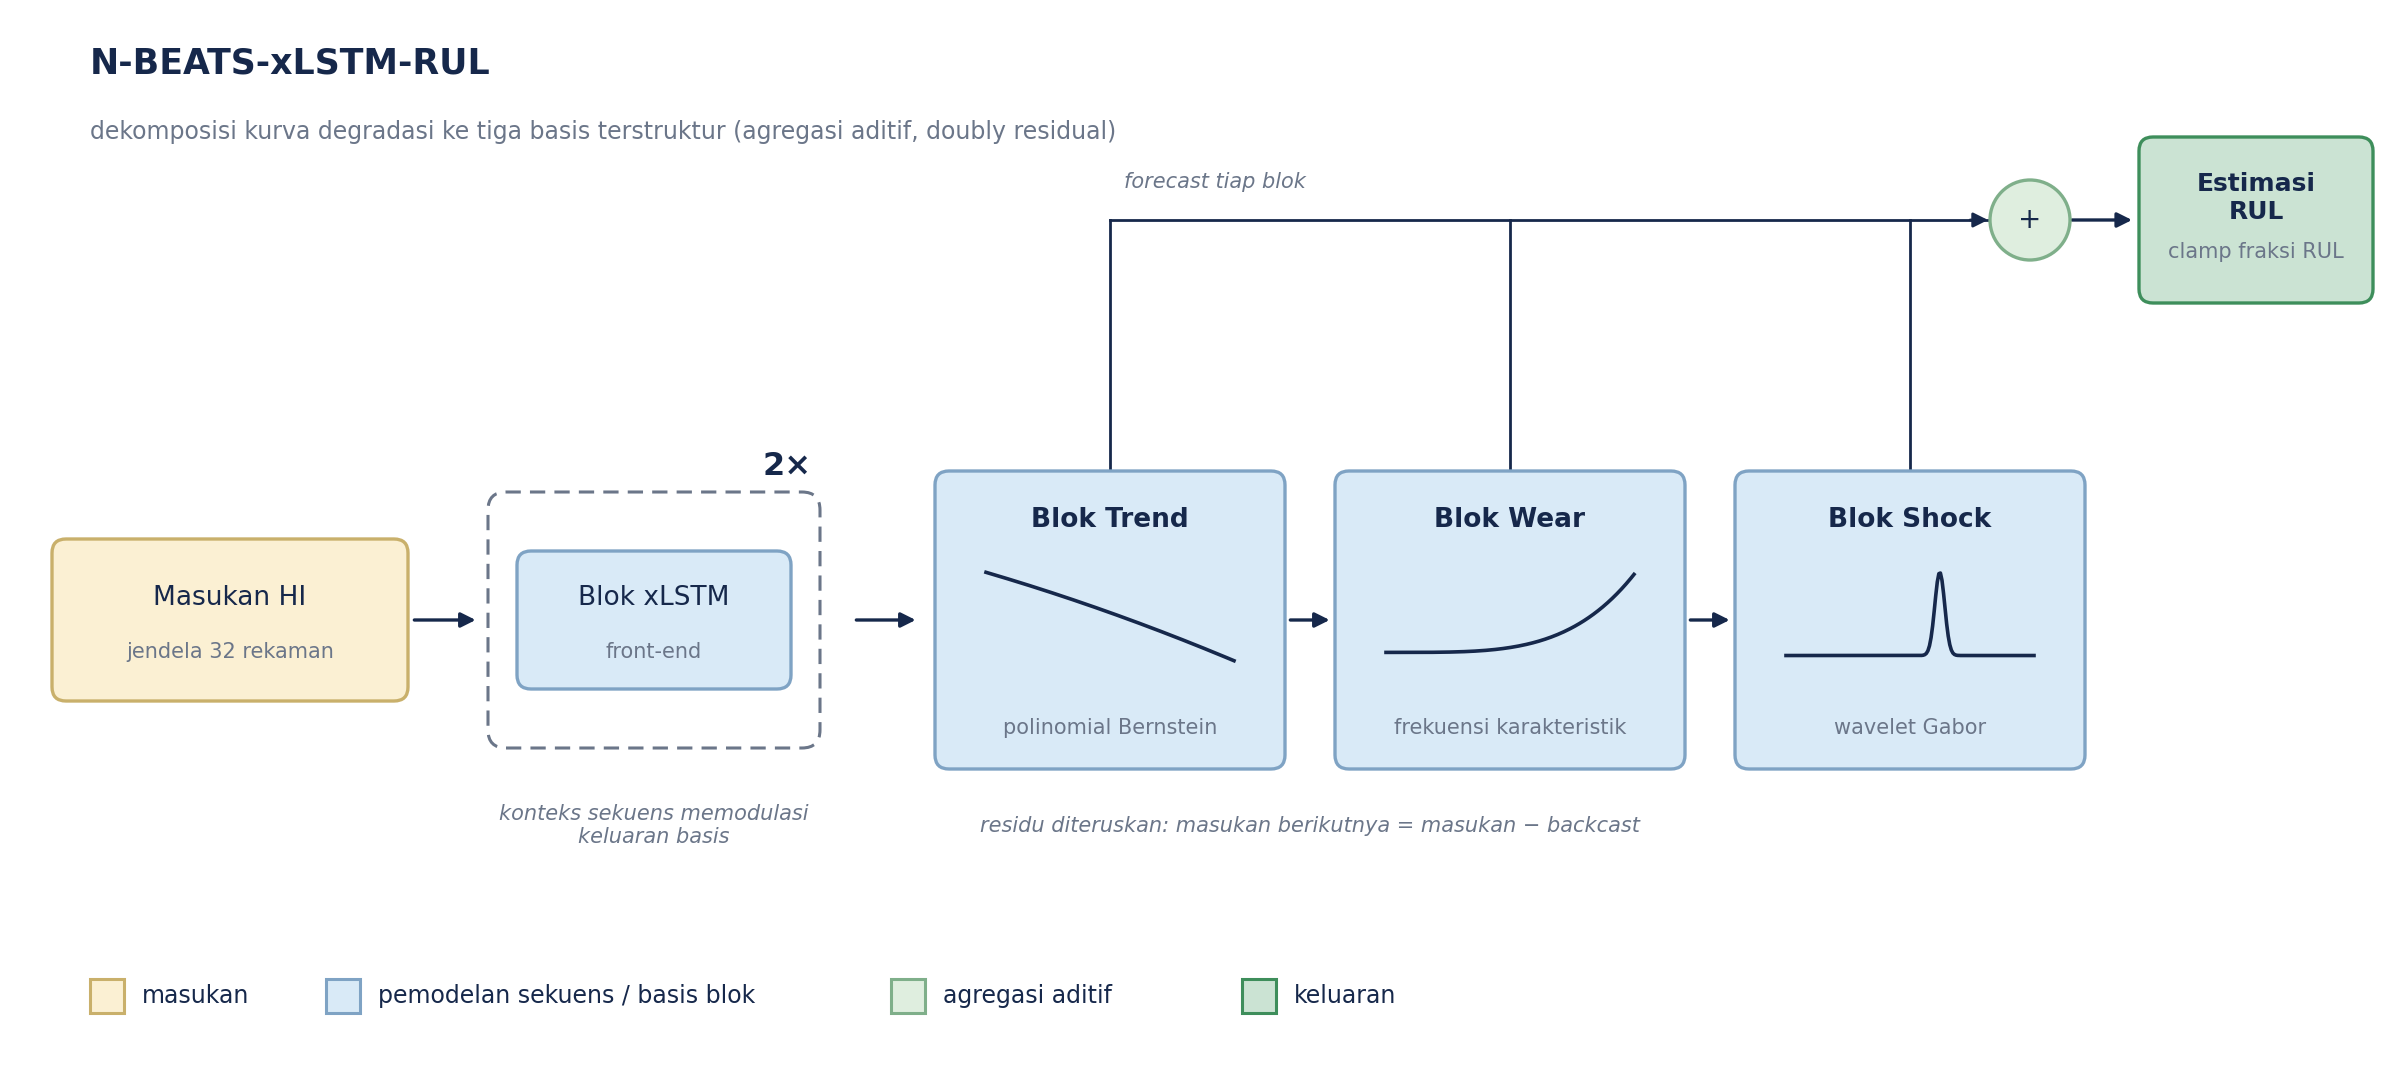
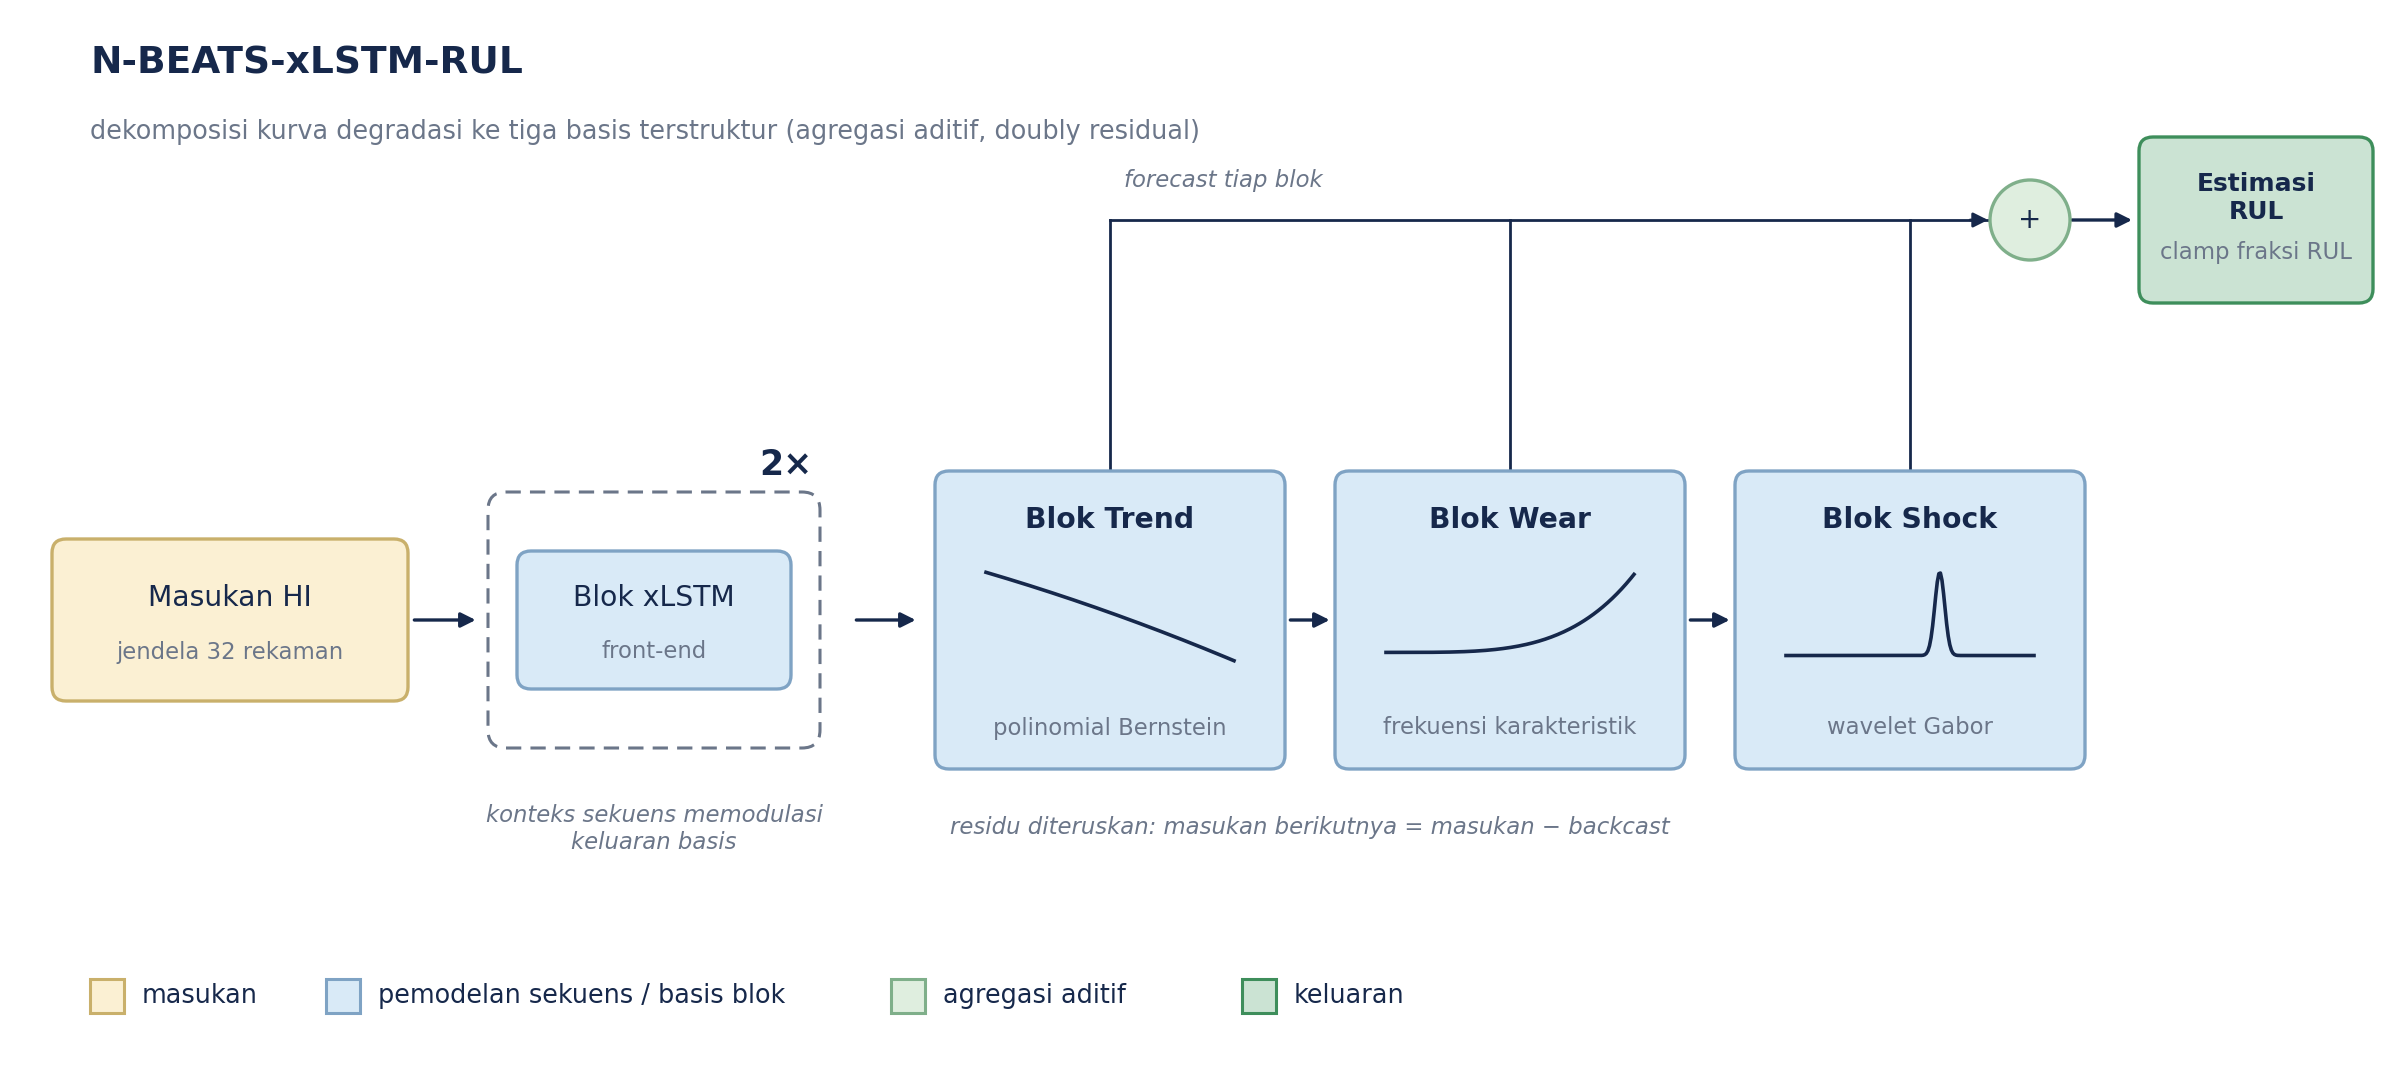
feat(presentation): integrate algorithm diagrams into the deck (52 slides)
Five new main slides (classic-ML trio, one architecture slide per RUL
backbone, sinyal-ke-FSM pipeline) and one new backup (streaming engine);
the SAE, SAE-BPFx, and WDCNN slides swap manuscript art for the redrawn
figures, each with a 'digambar ulang berdasarkan Gambar X.N' source line.
The now-redundant Mamba backup slide is folded into its main slide.
New tests: diagram set complete + referenced, provenance claims for the
numbers drawn into the figures. 129 tests green.

Claude-Session: https://claude.ai/code/session_01VPxUBMA37K3bjY1ZnjmBgu

diff --git a/presentation/tests/test_diagrams.py b/presentation/tests/test_diagrams.py
@@ -1,0 +1,42 @@
+"""The paper-style algorithm diagrams must exist and stay slide-ready.
+
+`make diagrams` (tools/render_diagrams.py) renders one PNG per method into
+assets/diagrams/. These tests keep the committed set complete and catch a
+diagram that regressed to an unusable size; the visual QA itself is manual.
+"""
+
+from __future__ import annotations
+
+import sys
+from pathlib import Path
+
+import pytest
+from PIL import Image
+
+ROOT = Path(__file__).resolve().parents[1]
+sys.path.insert(0, str(ROOT))
+
+from tools.render_diagrams import DIAGRAMS, KIND, OUT  # noqa: E402
+
+
+@pytest.mark.parametrize("name", sorted(DIAGRAMS))
+def test_diagram_rendered_and_sized(name):
+    target = OUT / f"{name}.png"
+    assert target.exists(), f"run `make diagrams` — missing {target.name}"
+    with Image.open(target) as image:
+        width, height = image.size
+    assert width >= 1800, f"{name}: {width}px wide — rendered below 200 dpi?"
+    assert height < width, f"{name}: portrait aspect will not fit the slide band"
+
+
+def test_every_diagram_is_referenced_by_the_deck():
+    spec = (ROOT / "content" / "sidang-terbuka.yaml").read_text(encoding="utf-8")
+    unused = [n for n in DIAGRAMS if f"diagrams/{n}.png" not in spec]
+    assert unused == [], f"diagrams rendered but not on any slide: {unused}"
+
+
+def test_palette_kinds_are_wellformed():
+    for kind, colors in KIND.items():
+        assert set(colors) == {"fc", "ec"}, kind
+        for value in colors.values():
+            assert value.startswith("#") and len(value) == 7, (kind, value)

diff --git a/presentation/tests/test_provenance.py b/presentation/tests/test_provenance.py
@@ -109,8 +109,18 @@ CLAIMS: list[tuple[str, list[str]]] = [
     ("kenaikan 133%", ["133%", "133 %"]),
     # s16 backbone RUL
     ("Mamba-xLSTM 898K parameter", ["898"]),
+    ("Mamba-xLSTM 811K parameter pada XJTU-SY", ["811"]),
     ("N-BEATS 459K parameter", ["459"]),
+    ("N-BEATS stabilitas lintas seed 0,007", ["0,007"]),
     ("SparseGate-TCN 249K parameter", ["249"]),
+    # structural facts drawn into the algorithm diagrams
+    ("tiga pasang blok hibrid Mamba + mLSTM", ["tiga pasang"]),
+    ("SAE ekspansi delapan kali", ["delapan kali ekspansi"]),
+    ("dilatasi TCN 1-2-4-8", ["1, 2, 4, dan 8"]),
+    ("WDCNN kernel pertama lebar 64 stride 16", ["stride 16"]),
+    ("jendela streaming 64 akuisisi", ["jendela 64 akuisisi"]),
+    ("basis blok trend wear shock", ["wavelet Gabor"]),
+    ("quantile head median", ["quantile head"]),
     ("PHM2012 RMSE 0,226", ["0,226"]),
     ("XJTU-SY RMSE 0,213", ["0,213"]),
     ("runner-up XJTU 0,216", ["0,216"]),

diff --git a/presentation/tools/render_diagrams.py b/presentation/tools/render_diagrams.py
@@ -49,10 +49,10 @@ KIND = {
     "active": {"fc": GOLD_FILL, "ec": GOLD},        # emas    — fitur aktif
 }
 
-FS_TITLE = 11.5   # panel / container titles
-FS_BLOCK = 9.5    # block labels
-FS_NOTE = 8.5     # annotations, legend
-FS_TINY = 7.5
+FS_TITLE = 12.5   # panel / container titles
+FS_BLOCK = 10.2   # block labels
+FS_NOTE = 9.2     # annotations, legend
+FS_TINY = 8.2
 
 
 # --------------------------------------------------------------------------
